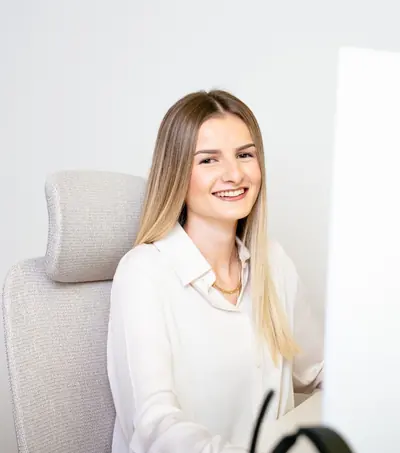
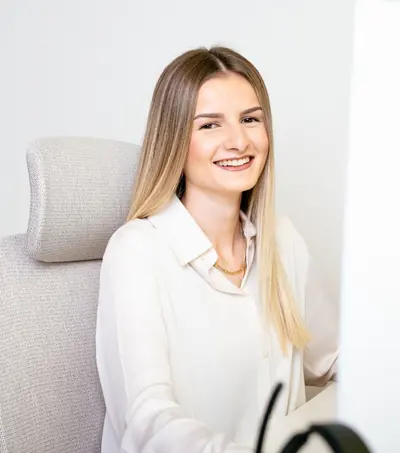
Vesa hoeher im Bild, weicher Auslauf unter den Namen
Vesas Karte oben um 120 Pixel beschnitten, dadurch sitzt sie hoeher und
groesser im Rahmen (887x1005 statt 993x1125).
Der Verlauf hinter den Namen hatte nur drei Stufen und setzte darum sichtbar
als Kante an. Jetzt eine S-Kurve aus dreizehn Stufen, dazu laeuft er ueber
4.5rem statt 1.6rem aus. Gemessen: groesster Helligkeitssprung innerhalb des
Verlaufs noch 4 von 255 Stufen.

Changed region(s): [[0.0, 0.0927, 0.96, 1.0], [0.0, 0.7108, 0.03, 0.8035], [0.0, 0.649, 0.03, 0.6799]]

diff --git a/assets/style.css b/assets/style.css
@@ -1471,8 +1471,25 @@ body.menu-open .sidebar__menu .bars span:nth-child(3) { transform: translateY(-6
 
 .person__bar {
   position: absolute; left: 0; right: 0; bottom: 0; z-index: 2;
-  padding: 1.6rem 1.4rem 1.3rem;
-  background: linear-gradient(to top, rgba(8,13,11,.94) 0%, rgba(8,13,11,.72) 55%, rgba(8,13,11,0) 100%);
+  padding: 4.5rem 1.4rem 1.3rem;
+  /* Weicher Auslauf statt sichtbarer Kante. Ein Verlauf mit wenigen Stufen
+     setzt oben als Linie an, weil die Deckkraft dort schlagartig zu steigen
+     beginnt. Viele Stufen bilden eine S-Kurve nach: unten satt, oben
+     unmerklich auslaufend. */
+  background: linear-gradient(to top,
+    rgba(8,13,11,.94)   0%,
+    rgba(8,13,11,.930) 10%,
+    rgba(8,13,11,.900) 19%,
+    rgba(8,13,11,.852) 28%,
+    rgba(8,13,11,.784) 37%,
+    rgba(8,13,11,.684) 46%,
+    rgba(8,13,11,.570) 55%,
+    rgba(8,13,11,.448) 64%,
+    rgba(8,13,11,.322) 73%,
+    rgba(8,13,11,.200) 82%,
+    rgba(8,13,11,.100) 90%,
+    rgba(8,13,11,.038) 96%,
+    rgba(8,13,11,0)   100%);
   display: grid; grid-template-columns: 1fr auto; align-items: end; gap: 1rem;
 }
 /* Der Abstand um den Namen waechst mit auf. Er darf nicht am zugeklappten

diff --git a/index.html b/index.html
@@ -514,8 +514,8 @@
         </div>
       </article>
       <article class="person" tabindex="0">
-        <img src="assets/img/team-vesa.webp" width="993" height="1125" alt="Vesa Ademi" loading="lazy" decoding="async"
-                   srcset="assets/img/team-vesa-400.webp 400w, assets/img/team-vesa-700.webp 700w, assets/img/team-vesa.webp 993w"
+        <img src="assets/img/team-vesa.webp" width="887" height="1005" alt="Vesa Ademi" loading="lazy" decoding="async"
+                   srcset="assets/img/team-vesa-400.webp 400w, assets/img/team-vesa-700.webp 700w, assets/img/team-vesa.webp 887w"
                    sizes="(max-width: 900px) 100vw, 30vw">
         <div class="person__bar">
           <div><span class="person__ruf" aria-hidden="true"><span>«Vesa»</span></span><span class="kenn nm">Vesa Ademi</span><span class="rl"><span>Projektleiterin Heizung Kälte</span></span></div>
